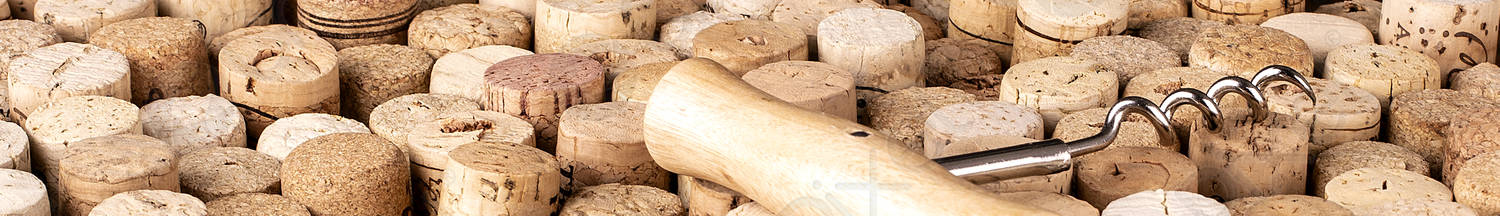
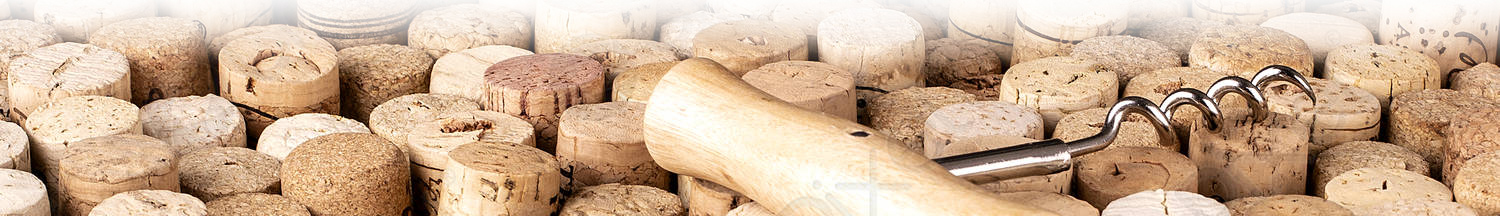
fast fertig

Changed region(s): [[0.0, 0.0, 1.0, 0.2778]]

diff --git a/fami2021_projekt/css/style_web.css b/fami2021_projekt/css/style_web.css
@@ -157,10 +157,10 @@ video {
     height: 600px;
     border-radius: 10px;
     color:black;
-    padding-top: 100px;
+    padding-top: 70px;
     padding-left: 120px;
     padding-right: 120px;
-    padding-bottom: 100px;
+    padding-bottom: 50px;
     text-align: justify;
 }
 
@@ -183,6 +183,14 @@ video {
 .child_box img {
     border-radius: 5px;
     border: solid 2px;
+}
+
+.cork {
+    opacity: 0.25;
+    overflow: hidden;
+    justify-content: center;
+    margin: -5px;
+
 }
 
 .container_contact {
@@ -335,19 +343,11 @@ label {
 }
 
 
-
-
-
-
-
-
-
-
-
 .glasses {
     opacity: 0.25;
     overflow: hidden;
     justify-content: center;
+    margin: -5px;
 
 }
 
@@ -372,56 +372,104 @@ label {
 }
 
 
-@media screen and (max-width: 1500px) {
+@media screen and (max-width: 1800px) {
 
     .navigation, .navigation ul{
         flex-flow: column;
         align-items: center;
+        padding-bottom: 10px;
+    }
+
+    ul {
+        padding-top: 20px;
+    }
+    
+    li {
+        padding: 25px;
+    }
+
+    .img_wein img{
+        width: 250%;
+        min-height: 100px;
+        max-height: 300px;
+        object-fit:cover;
+        margin-left: -105%;
     }
 
     .img_wein {
-        padding-bottom: 17px;
+        padding-bottom: 25px;
     }
 
     .child_magazin {
-        padding: 20px;
         text-align: justify;
+        padding-left: 25px;
+        padding-right: 25px;
     }
 
     .home_h1 {
         font-size: 17px;
-        padding:25px
+        padding-top: 50px;
+        padding-bottom: 35px;
     }
 
     .parent_video {
         flex-flow: column;
+        padding: 0px;
+    }
+
+    .parent_video video {
+        padding-bottom: 50px;
     }
 
     .team_h1 {
         font-size: 17px;
+        padding-top: 50px;
+        padding-bottom: 80px;
+    
     }
 
     .parent_box {
         padding: 0px;
+        margin: 30px;
 
     }
 
     .child_box {
         padding-bottom: 0px;
-        padding-top: 70px;
+        padding-top: 60px;
+        flex-flow: column;
+        padding-left: 0px;
+        padding-right: 0px;
     }
 
     .produkt_h1 {
         font-size: 17px;
+        padding-top: 80px;
+        padding-bottom: 80px;
+    
     }
 
     .produkt_parent_slide {
         align-self:center;
+        margin-bottom: 60px;
+        padding-top: 60px;
+        padding-left: 50px;
+        padding-right: 50px;
     }
 
     .produkt_child {
         width: 33,3%;
-        padding-top:25px
+        margin: 0px;
+        padding-top: 60px;
+    }
+
+    .produkt_text {
+        margin-top: 190px;
+    }
+
+
+    .glasses {
+        padding-top: 60px;
     }
 
 

diff --git a/fami2021_projekt/html/index.html b/fami2021_projekt/html/index.html
@@ -72,7 +72,7 @@
                 <h2>WEINREGAL</h2>
                 <p>Lorem ipsum dolor sit amet, consectetuer adipiscing elit. Aenean commodo ligula eget dolor. Aenean
                     massa. Cum sociis natoque penatibus et magnis dis parturient montes, nascetur ridiculus mus. Donec
-                    quam felis, ultricies nec, pellentesque eu, <p>pretium quis, sem. Nulla consequat massa quis enim.
+                    quam felis, ultricies nec, pellentesque eu, pretium quis, sem. Nulla consequat massa quis enim.
                     Donec pede justo, fringilla vel, aliquet nec, vulputate eget, arcu. In enim justo, rhoncus ut,
                     imperdiet a, venenatis vitae, justo. Nullam dictum felis eu pede mollis pretium. Integer tincidunt.
                 </p>

diff --git a/fami2021_projekt/html/team.html b/fami2021_projekt/html/team.html
@@ -105,6 +105,11 @@
         </div>
     </div>
 
+        <div class="cork">
+            <img src="../images/corkscrew-wine.jpg" width="100%" alt="Korken">
+        </div>
+    
+
 
     <div class="footer">
         <div class="copyright">
